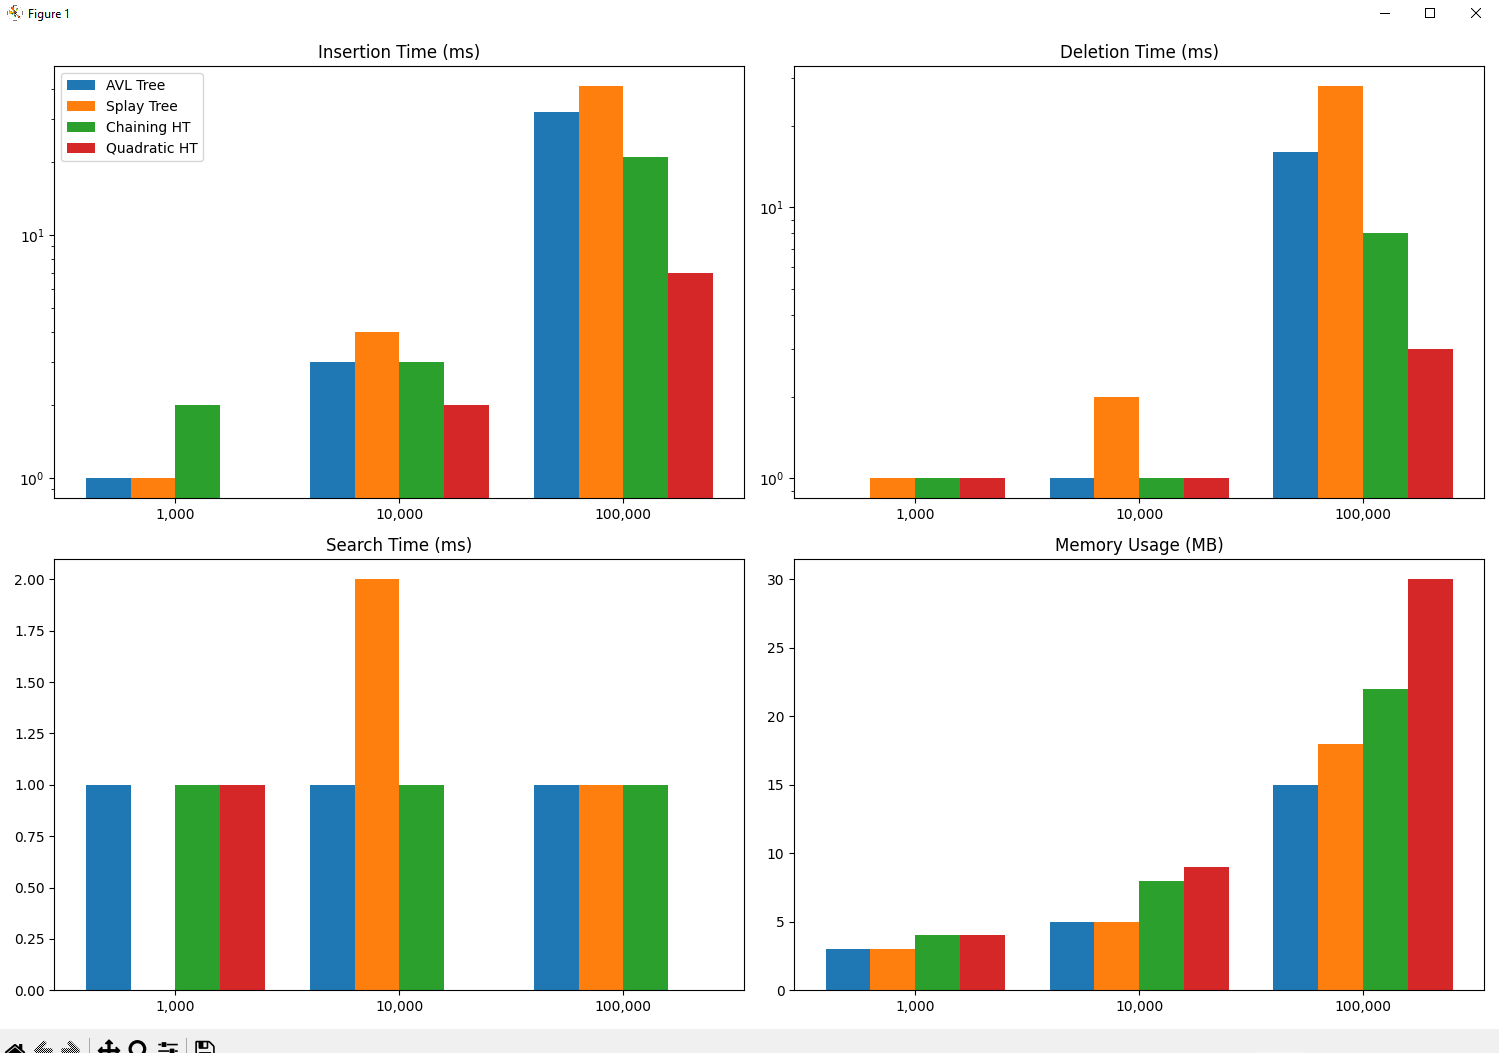
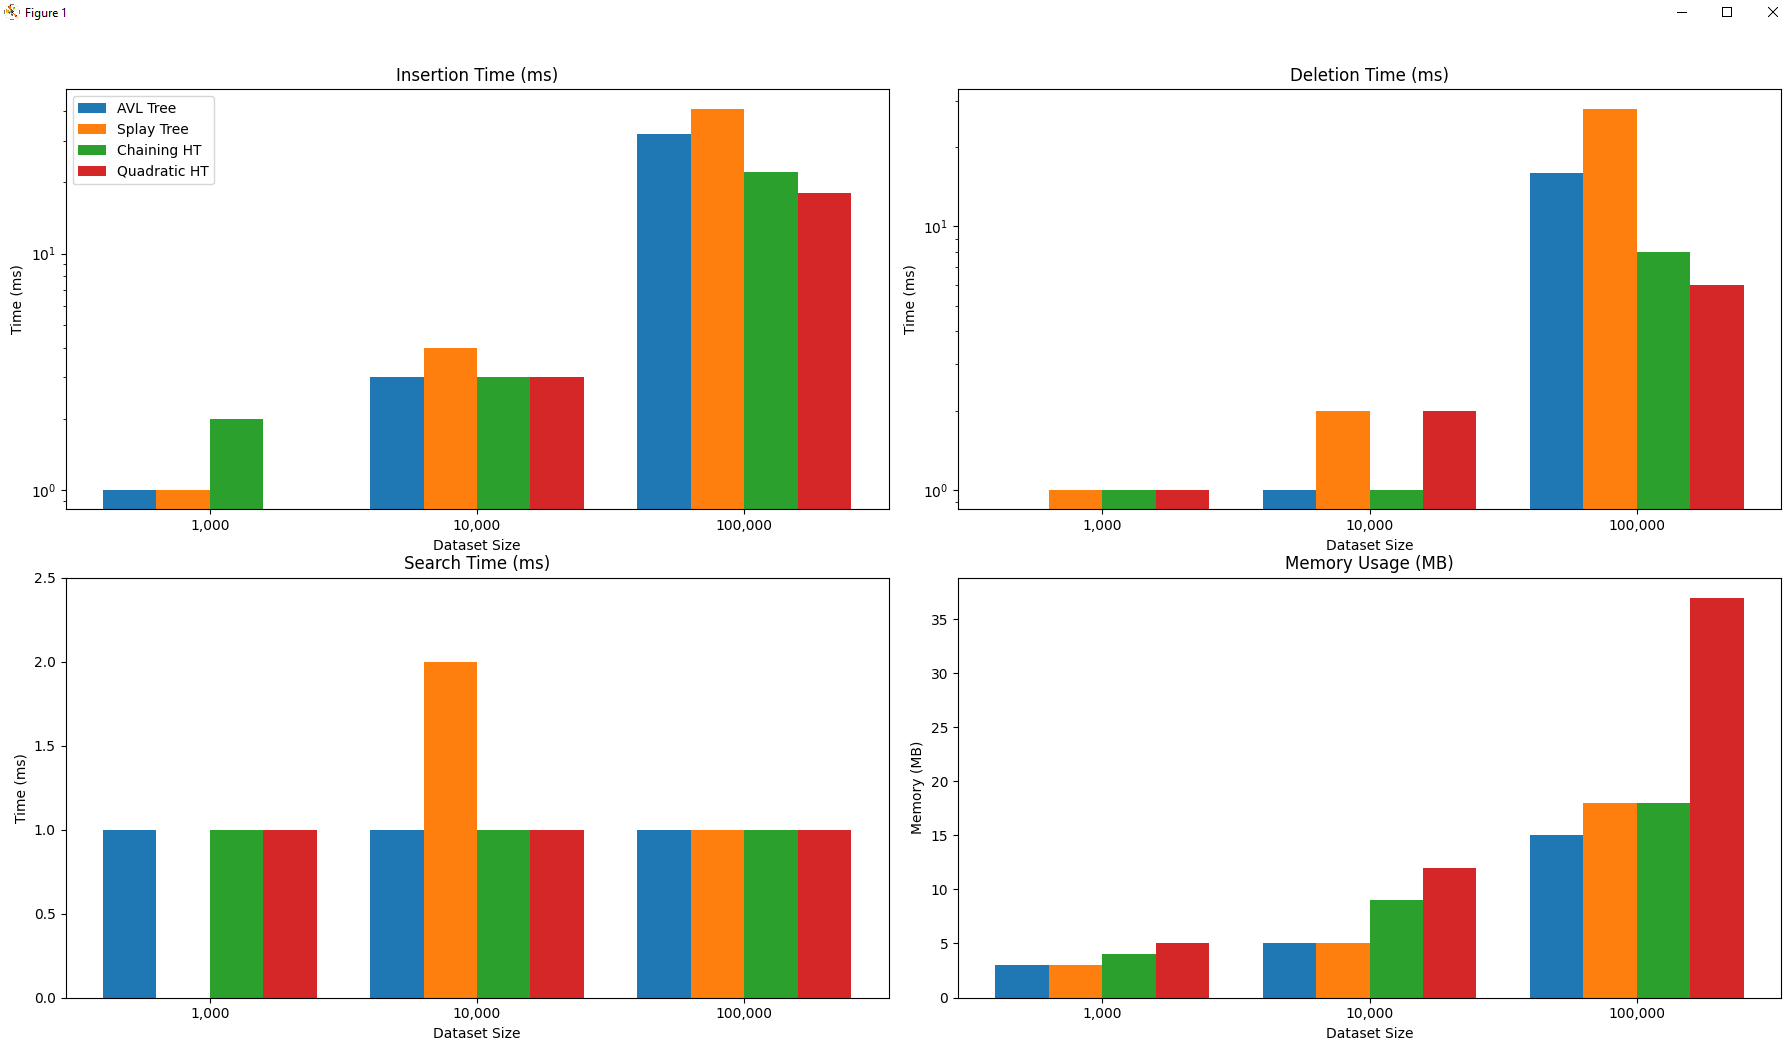
changed the hashing method for both tables to include FNV algorithm

diff --git a/src/QuadraticProbingHashTable.java b/src/QuadraticProbingHashTable.java
@@ -31,8 +31,17 @@ public class QuadraticProbingHashTable<K, V> {
         this.table = new Entry[capacity];
     }
 
-    private int hash(K key){
-        return (key.hashCode() & 0x7FFFFFFF) % capacity;
+    private int hash(K key) {
+        byte[] bytes = key.toString().getBytes();
+        final int FNV_OFFSET_BASIS = 0x811c9dc5;
+        final int FNV_PRIME = 0x01000193;
+        
+        int hash = FNV_OFFSET_BASIS;
+        for (byte b : bytes) {
+            hash ^= (b & 0xff);
+            hash *= FNV_PRIME;
+        }
+        return Math.abs(hash % capacity);
     }
 
     private int probe(int hash, int attempt){

diff --git a/src/ChainingHashTable.java b/src/ChainingHashTable.java
@@ -30,8 +30,17 @@ public class ChainingHashTable<K, V> {
         this.table = new LinkedList[capacity];
     }
 
-    private int hash(K key){
-        return (key.hashCode() & 0x7FFFFFFF) % capacity;
+    private int hash(K key) {
+        byte[] bytes = key.toString().getBytes();
+        final int FNV_OFFSET_BASIS = 0x811c9dc5;
+        final int FNV_PRIME = 0x01000193;
+        
+        int hash = FNV_OFFSET_BASIS;
+        for (byte b : bytes) {
+            hash ^= (b & 0xff);
+            hash *= FNV_PRIME;
+        }
+        return Math.abs(hash % capacity);
     }
 
     public int size(){

diff --git a/src/AVLTree.java b/src/AVLTree.java
@@ -92,8 +92,6 @@ public class AVLTree<T extends Comparable<T>> {
         return size;
     }
 
-
-
     public void insert(T key){
         root = insert(root, key);
         size++;
@@ -167,5 +165,4 @@ public class AVLTree<T extends Comparable<T>> {
 
         return (key.compareTo(node.key) < 0) ? search(node.left, key) : search(node.right, key);
     }
-
 }

diff --git a/README.md b/README.md
@@ -10,6 +10,34 @@ Section: `501`
 - **Operations**: Insert, Delete, Search
 - **Test Sizes**: 1_000, 10_000, 100_000
 
+## Implementation
+
+### AVL Tree
+- Basic node class with left and right children, with keys and height as data values
+- Balancing `O(logn)`: uses a balance factor to track height for each node (left - right)
+- Insertion `O(logn)`: recursively finds insertion points | updates heights and rebalances with 4 cases, double left, left right, double right, and right left
+- Deletion `O(logn)`: finds nodes in the same manner as a BST | handles 3 deletion cases, no children (simple deletion), one child (replace with that child), two children (replace with inorder successor) | rebalances after deletion is done
+- Search `O(logn)`: basic BST search algorithm
+
+### Splay Tree
+- Node class with left and right children, with keys and parent pointers as data
+- Insertion `O(logn)`: BST insertion | splays new node to the root using rotations | handles duplicates by splaying existing node
+- Deletion `O(logn)`: splays target to root node | 3 cases, no left child (replace with right tree), no right child (replace with left tree), two children (find max in left, splay to root, attach right tree)
+- Search `O(logn)`: BST search | found node, or last accessed in the case of not found, gets splayed to the top | uses the working set properly so that frequent accesses are faster
+
+### Chaining Hash Table
+- Stores the Key Value pairs in linked list buckets
+- Uses chaining to handle the hash collisions
+- Load factor set to .75 so the array resizes at 75% full
+- Doubles capacity when threshold is reached, halves when 25% full
+- Insertion `O(1)`: hashes key to find its bucket index | Key exists (updates value), or New key (adds to linked list) | triggers the resize function if the load factor is exceeded
+- Deletion `O(1)`: hashes to find bucket | removes entry from linked list if found | downsizes if table utilization goes below 25%
+- Search `O(1)`: hashes to find bucket | finds matching key in linked list | returns null if not found
+- Resizing `O(n)`: creates new table with either doubles or halved capacity | rehashes existing entries | mantains same key-to-value pair
+
+### Quadratic Probing Hash Table
+- 
+
 ## Performance Results
 
 The results shown are the averages of 10 runs
@@ -20,8 +48,8 @@ The results shown are the averages of 10 runs
 |-----------|-------|--------|----------|
 |AVL Tree | 1 | 3 | 32|
 |Splay Tree | 1 | 4 | 41|
-|Chaining Hash Table | 2 | 3 | 21|
-|Quadratic Probing Hash Table | 0 | 2 | 7|
+|Chaining Hash Table | 2 | 3 | 22|
+|Quadratic Probing Hash Table | 0 | 3 | 18|
 
 ### Deletion (ms)
 
@@ -30,7 +58,7 @@ The results shown are the averages of 10 runs
 |AVL Tree | 0 | 1 | 16|
 |Splay Tree | 1 | 2 | 28|
 |Chaining Hash Table | 1 | 1 | 8|
-|Quadratic Probing Hash Table | 1 | 1 | 3|
+|Quadratic Probing Hash Table | 1 | 2 | 6|
 
 ### Search (ms)
 
@@ -39,7 +67,7 @@ The results shown are the averages of 10 runs
 |AVL Tree | 1 | 1 | 1|
 |Splay Tree | 0 | 2 | 1|
 |Chaining Hash Table | 1 | 1 | 1|
-|Quadratic Probing Hash Table | 1 | 0 | 0|
+|Quadratic Probing Hash Table | 1 | 1 | 1|
 
 ### Memory Usage (MB)
 
@@ -47,14 +75,14 @@ The results shown are the averages of 10 runs
 |-----------|-------|--------|----------|
 |AVL Tree | 3 | 5 | 15|
 |Splay Tree | 3 | 5| 18|
-|Chaining Hash Table | 4 | 8 | 22|
-|Quadratic Probing Hash Table | 4 | 9 | 30|
+|Chaining Hash Table | 4 | 9 | 18|
+|Quadratic Probing Hash Table | 5 | 12 | 37|
 
 ## Observations
 
 ### Insertion
 
-- Overall, both Hash Tables outperform both the AVL Tree and Splay Tree with the Probing being the fastest at just 3ms of insertion time
+- Overall, both Hash Tables outperform both the AVL Tree and Splay Tree with the Probing being the fastest at just 2ms of insertion time (10_000)
 - I would assume that due to the strict balancing rules of the AVL Tree, it outperforms the Splay Tree
 
 ### Deletion
@@ -64,12 +92,12 @@ The results shown are the averages of 10 runs
 
 ### Search
 
-- Nearly all structures have almost instant search times with Quadratic Probing being the fastest of them all
+- Nearly all structures have almost instant search times 
 
 ### Memory Usage
 
 - At all levels, the 2 trees use less memory than the hash tables since they do not reserve any more memory than they need to
-- Quadratic Probing uses slightly more memory than Chaining, around 8MB at the larger data sets
+- Quadratic Probing uses almost double the memory than chaining for the largest data set, 100_000
 
 ## Graphs
 
